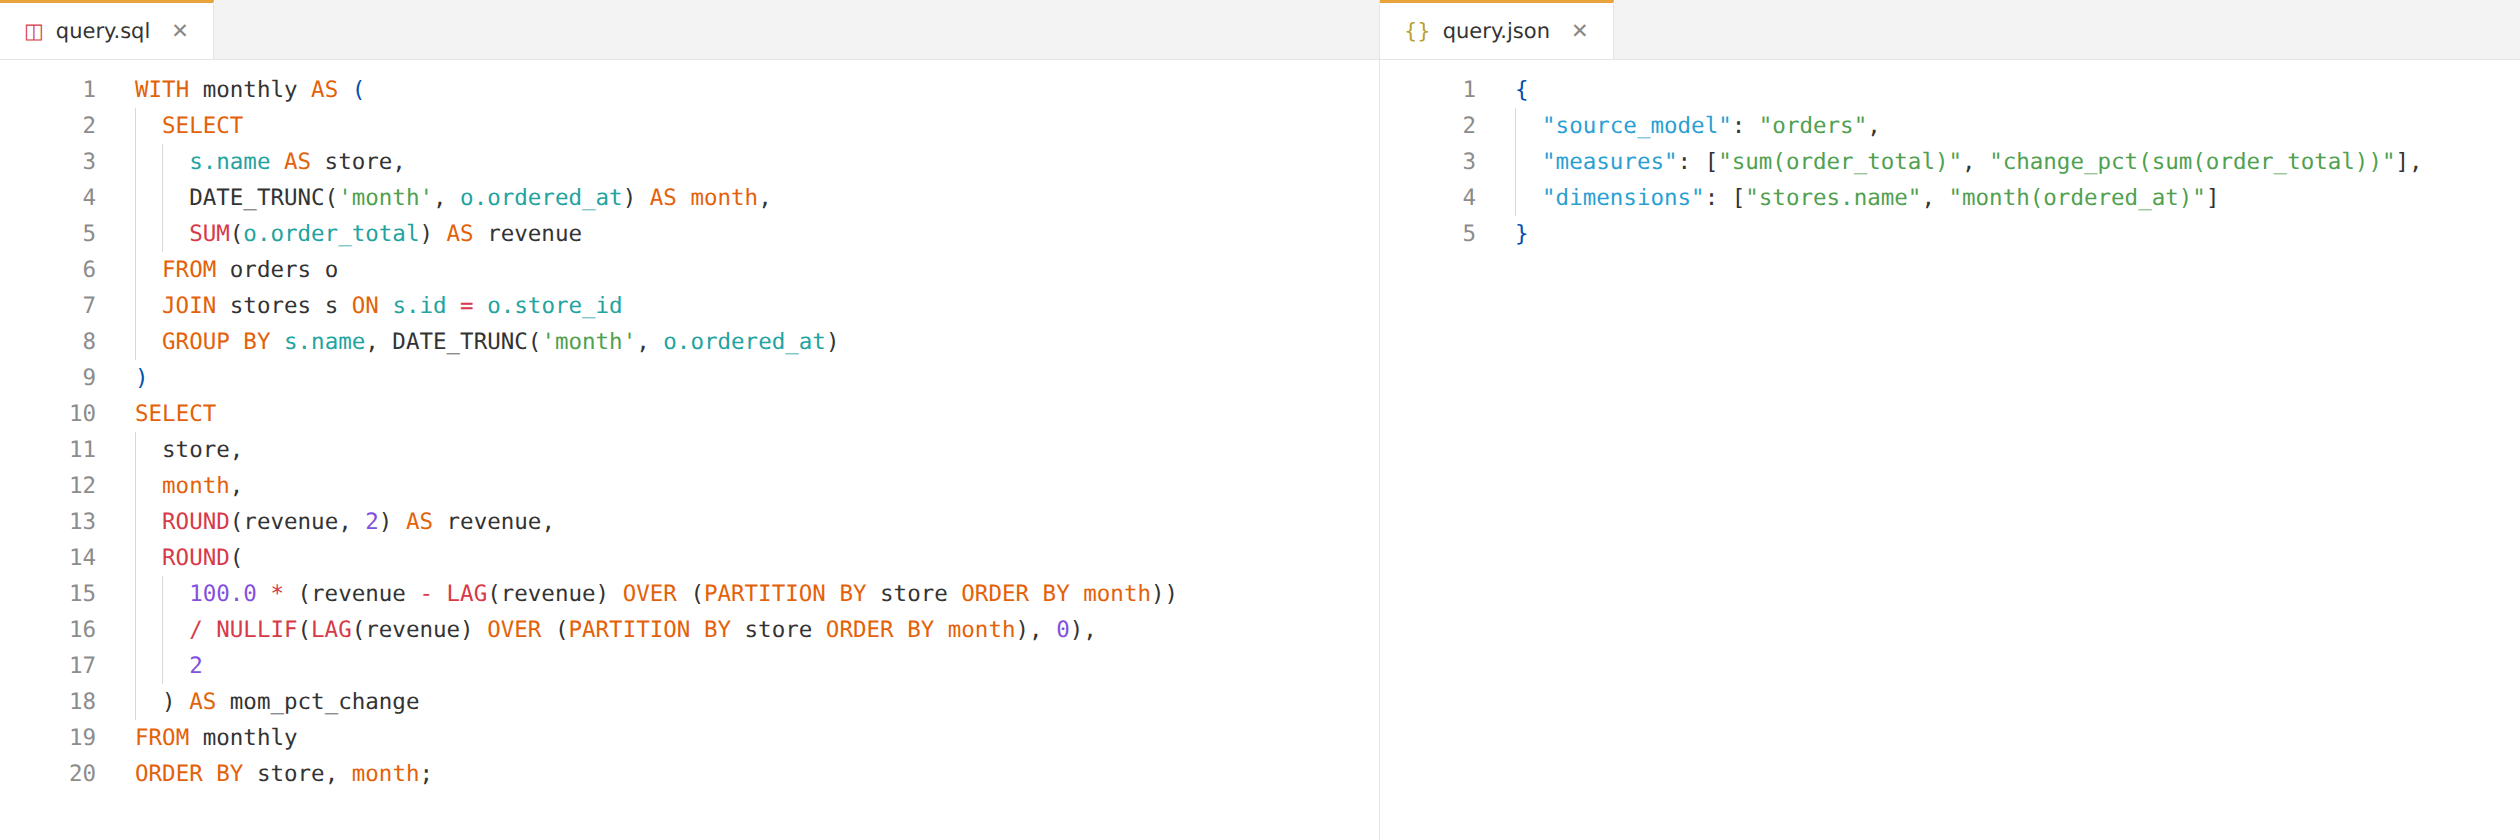
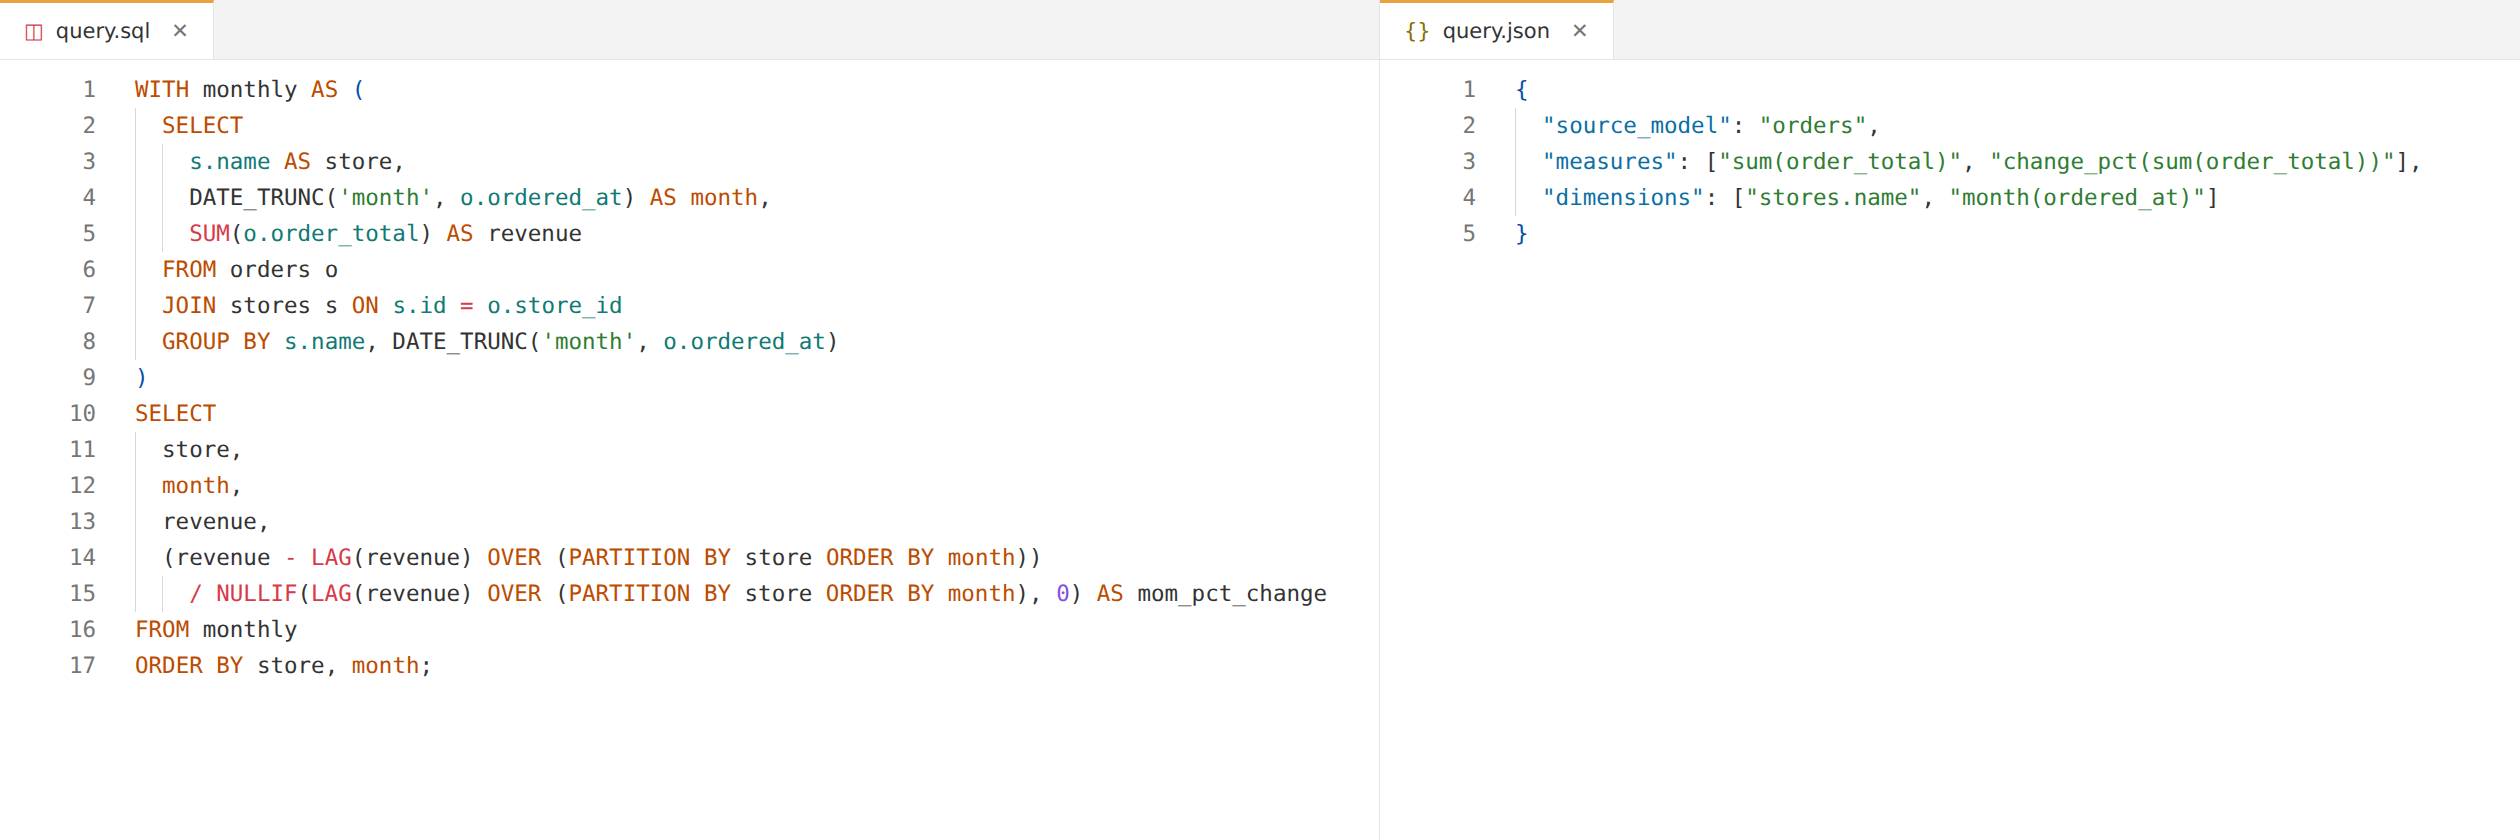
Review fixes: README picture panes compute the same values, 4.5:1 contrast, descriptive alt text; Q26-per-month MetricFlow probe pins all rows; Q26 SLayer caveat matches the spine probe

diff --git a/examples/readme/sql_vs_slayer.html b/examples/readme/sql_vs_slayer.html
@@ -12,16 +12,16 @@
     --bg: #ffffff;
     --bar: #f3f3f3;
     --rule: #e5e5e5;
-    --gutter: #8c8c8c;
+    --gutter: #767676;
     --guide: #d8d8d8;
     --text: #333333;
-    --keyword: #e36209;
+    --keyword: #bc4c00;
     --func: #d73a49;
-    --string: #50a14f;
-    --column: #22a39f;
+    --string: #2f7d32;
+    --column: #0f7a74;
     --number: #8250df;
     --paren: #0550ae;
-    --key: #2b9fd3;
+    --key: #0b6fa4;
   }
   * { box-sizing: border-box; margin: 0; padding: 0; }
   body {
@@ -38,7 +38,7 @@
     background: var(--bg); border-top: 2px solid #e8a33d; border-right: 1px solid var(--rule);
     font: 14px/1 -apple-system, "Segoe UI", "DejaVu Sans", sans-serif; color: #333;
   }
-  .tab .x { color: #888; margin-left: 6px; }
+  .tab .x { color: #767676; margin-left: 6px; }
   .code { padding-top: 8px; counter-reset: line; }
   .l { white-space: pre; }
   .l::before {
@@ -71,18 +71,15 @@
 <div class="l"><span class="k">SELECT</span></div>
 <div class="l"><i class="g"></i>store,</div>
 <div class="l"><i class="g"></i><span class="k">month</span>,</div>
-<div class="l"><i class="g"></i><span class="f">ROUND</span>(revenue, <span class="n">2</span>) <span class="k">AS</span> revenue,</div>
-<div class="l"><i class="g"></i><span class="f">ROUND</span>(</div>
-<div class="l"><i class="g"></i><i class="g"></i><span class="n">100.0</span> <span class="f">*</span> (revenue <span class="f">-</span> <span class="f">LAG</span>(revenue) <span class="k">OVER</span> (<span class="k">PARTITION BY</span> store <span class="k">ORDER BY</span> <span class="k">month</span>))</div>
-<div class="l"><i class="g"></i><i class="g"></i><span class="f">/ NULLIF</span>(<span class="f">LAG</span>(revenue) <span class="k">OVER</span> (<span class="k">PARTITION BY</span> store <span class="k">ORDER BY</span> <span class="k">month</span>), <span class="n">0</span>),</div>
-<div class="l"><i class="g"></i><i class="g"></i><span class="n">2</span></div>
-<div class="l"><i class="g"></i>) <span class="k">AS</span> mom_pct_change</div>
+<div class="l"><i class="g"></i>revenue,</div>
+<div class="l"><i class="g"></i>(revenue <span class="f">-</span> <span class="f">LAG</span>(revenue) <span class="k">OVER</span> (<span class="k">PARTITION BY</span> store <span class="k">ORDER BY</span> <span class="k">month</span>))</div>
+<div class="l"><i class="g"></i><i class="g"></i><span class="f">/ NULLIF</span>(<span class="f">LAG</span>(revenue) <span class="k">OVER</span> (<span class="k">PARTITION BY</span> store <span class="k">ORDER BY</span> <span class="k">month</span>), <span class="n">0</span>) <span class="k">AS</span> mom_pct_change</div>
 <div class="l"><span class="k">FROM</span> monthly</div>
 <div class="l"><span class="k">ORDER BY</span> store, <span class="k">month</span>;</div>
   </div>
 </section>
 <section class="pane">
-  <div class="tabs"><div class="tab"><span style="color:#b8a12f">{}</span>query.json<span class="x">&#10005;</span></div></div>
+  <div class="tabs"><div class="tab"><span style="color:#8a6d00">{}</span>query.json<span class="x">&#10005;</span></div></div>
   <div class="code">
 <div class="l"><span class="p">{</span></div>
 <div class="l"><i class="g"></i><span class="y">"source_model"</span>: <span class="s">"orders"</span>,</div>

diff --git a/README.md b/README.md
@@ -44,7 +44,7 @@ Question (run on the built-in demo Jaffle Shop database): **"show monthly revenu
 
 Side by side, here's LLM-generated SQL and the equivalent SLayer query.
 
-![Example SQL vs SLayer query](https://raw.githubusercontent.com/MotleyAI/slayer/main/docs/images/sql-vs-slayer.png)
+![A 17-line SQL query with a CTE, a join and two LAG window functions, next to the SLayer query {"source_model": "orders", "measures": ["sum(order_total)", "change_pct(sum(order_total))"], "dimensions": ["stores.name", "month(ordered_at)"]}](https://raw.githubusercontent.com/MotleyAI/slayer/main/docs/images/sql-vs-slayer.png)
 
 ## Quickstart
 

diff --git a/openspec/changes/dev-2104-update-documentation/design.md b/openspec/changes/dev-2104-update-documentation/design.md
@@ -15,7 +15,7 @@ See proposal.md - Why. The matrix lives in `examples/comparisons/matrix.yaml`, i
 ## Decisions
 
 ### D1. README picture: committed HTML source rendered to a PNG
-`examples/readme/sql_vs_slayer.html` is a two-pane, syntax-highlighted mock of the current screenshot: left `query.sql` with the current SQL unchanged, right `query.json` with
+`examples/readme/sql_vs_slayer.html` is a two-pane, syntax-highlighted mock of the current screenshot: left `query.sql` with the current SQL minus its `100.0 *` and `ROUND` wrappers, so both panes return the same values, right `query.json` with
 
 ```json
 {
